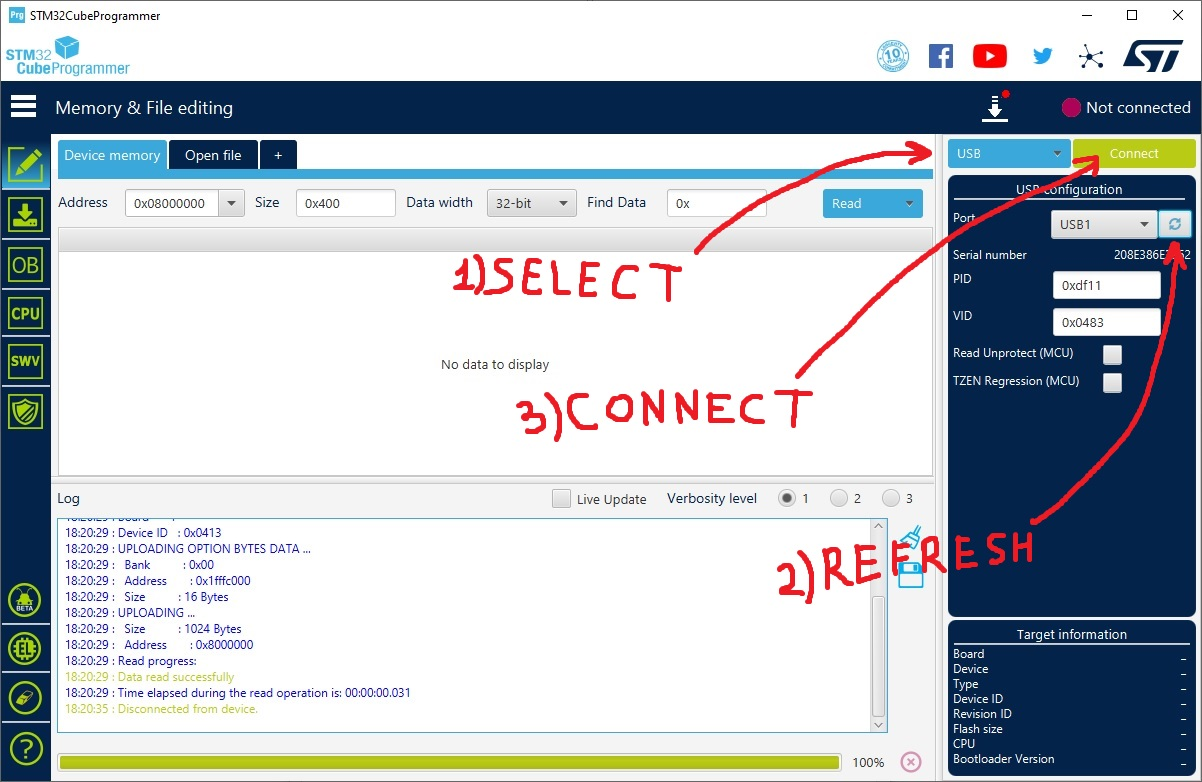
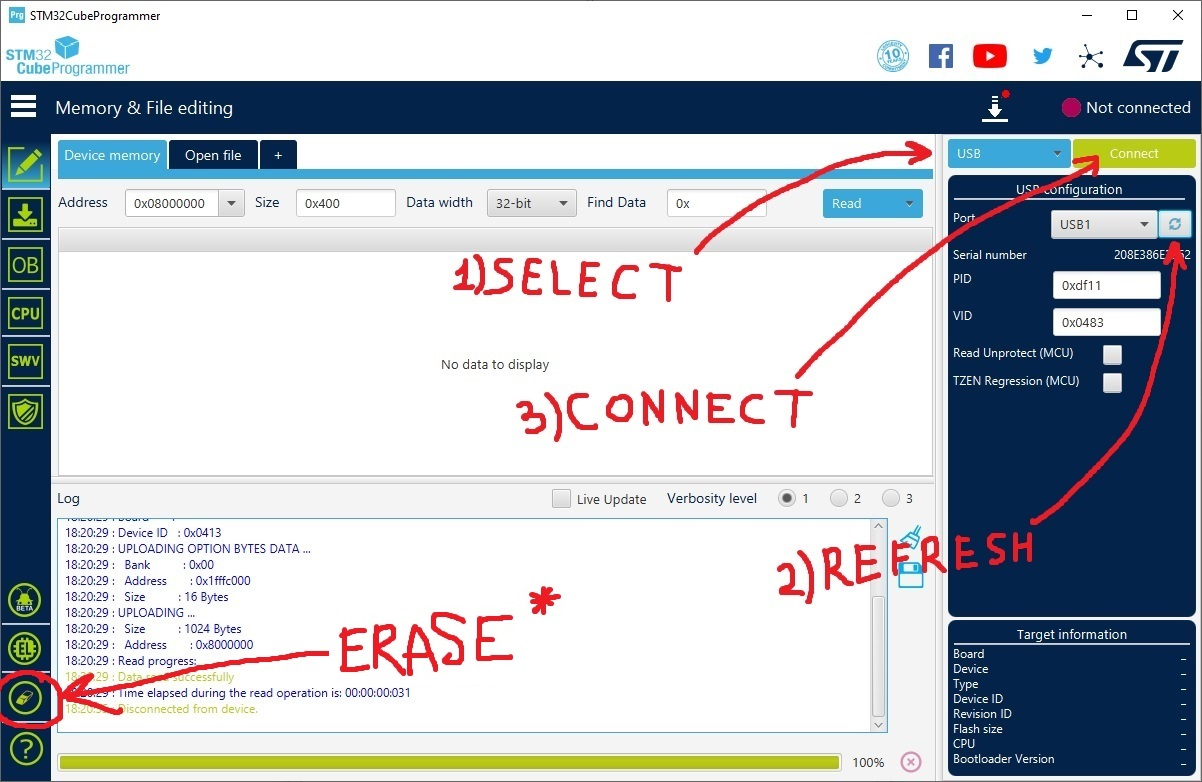
Files added

diff --git a/docs/en/software_firmware_flashing.md b/docs/en/software_firmware_flashing.md
@@ -92,6 +92,11 @@ Firmware fleshing process is pretty simple. Just use one of methods described ab
 [<img src="../../assets/images/flashing_00.jpg" width="360">](../../assets/images/flashing_00.jpg)
 [<img src="../../assets/images/flashing_01.jpg" width="360">](../../assets/images/flashing_01.jpg)
 
+{: .warning }
+>**Important!** Perform **Full Chip Erase** before uploading firmware on fresh device!
+> Further updates do not require erasing, but on new controller it is highly recommended.
+
+
 1. Select method (USB for DFU, ST-LINK for ST-LINK).
 2. Press "Refresh" button to see connected controller or ST-Link.
 3. Press "Connect"
